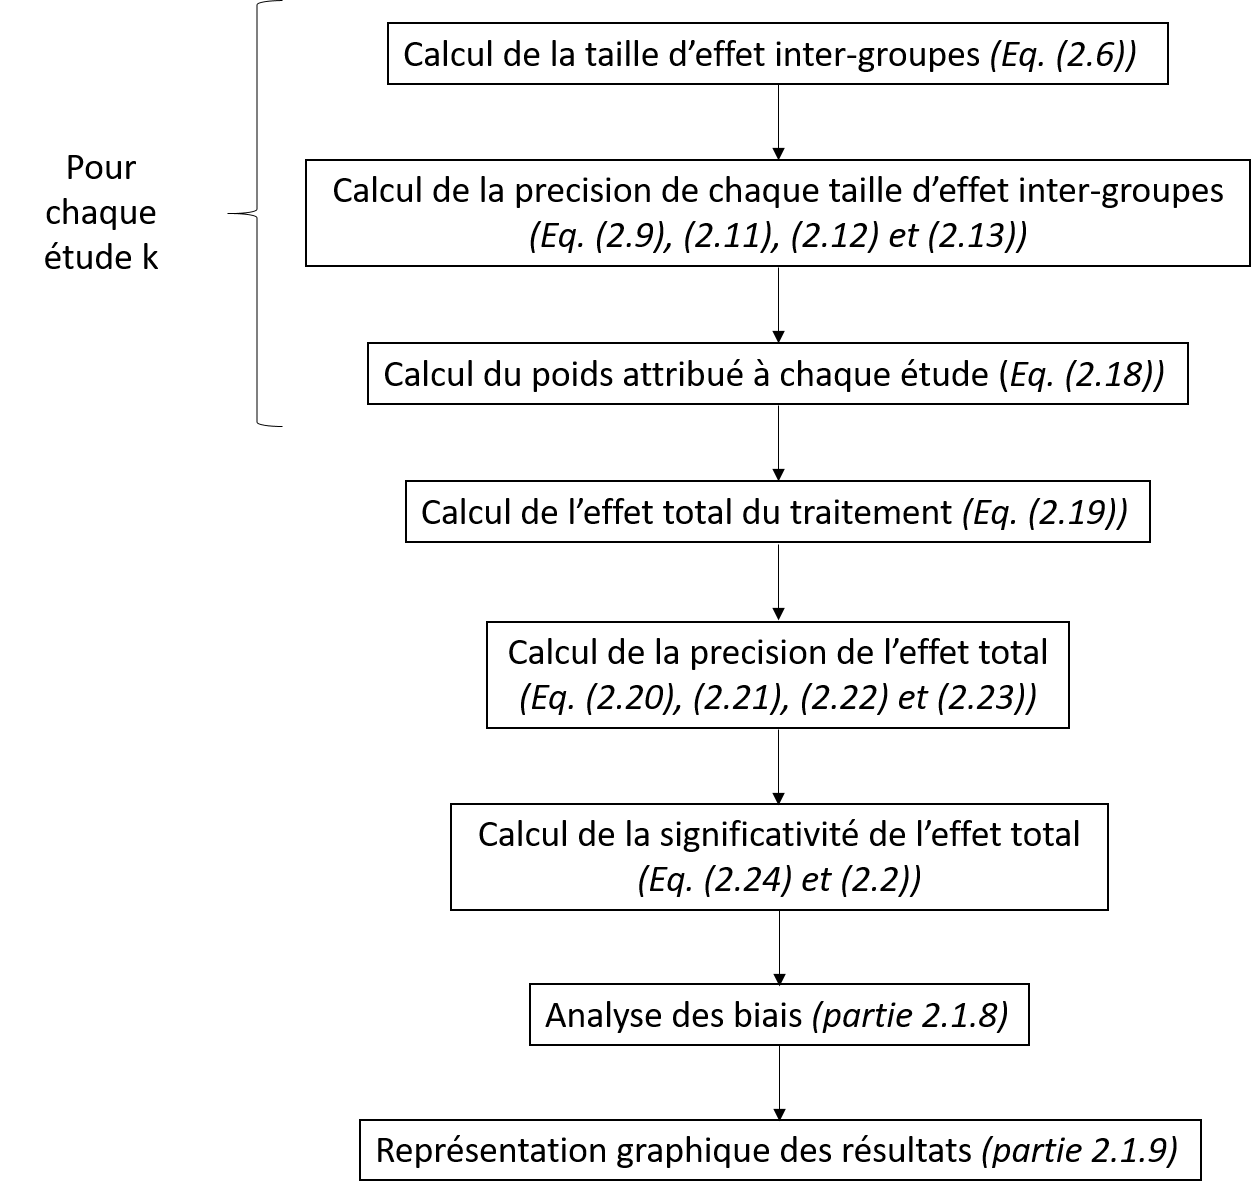
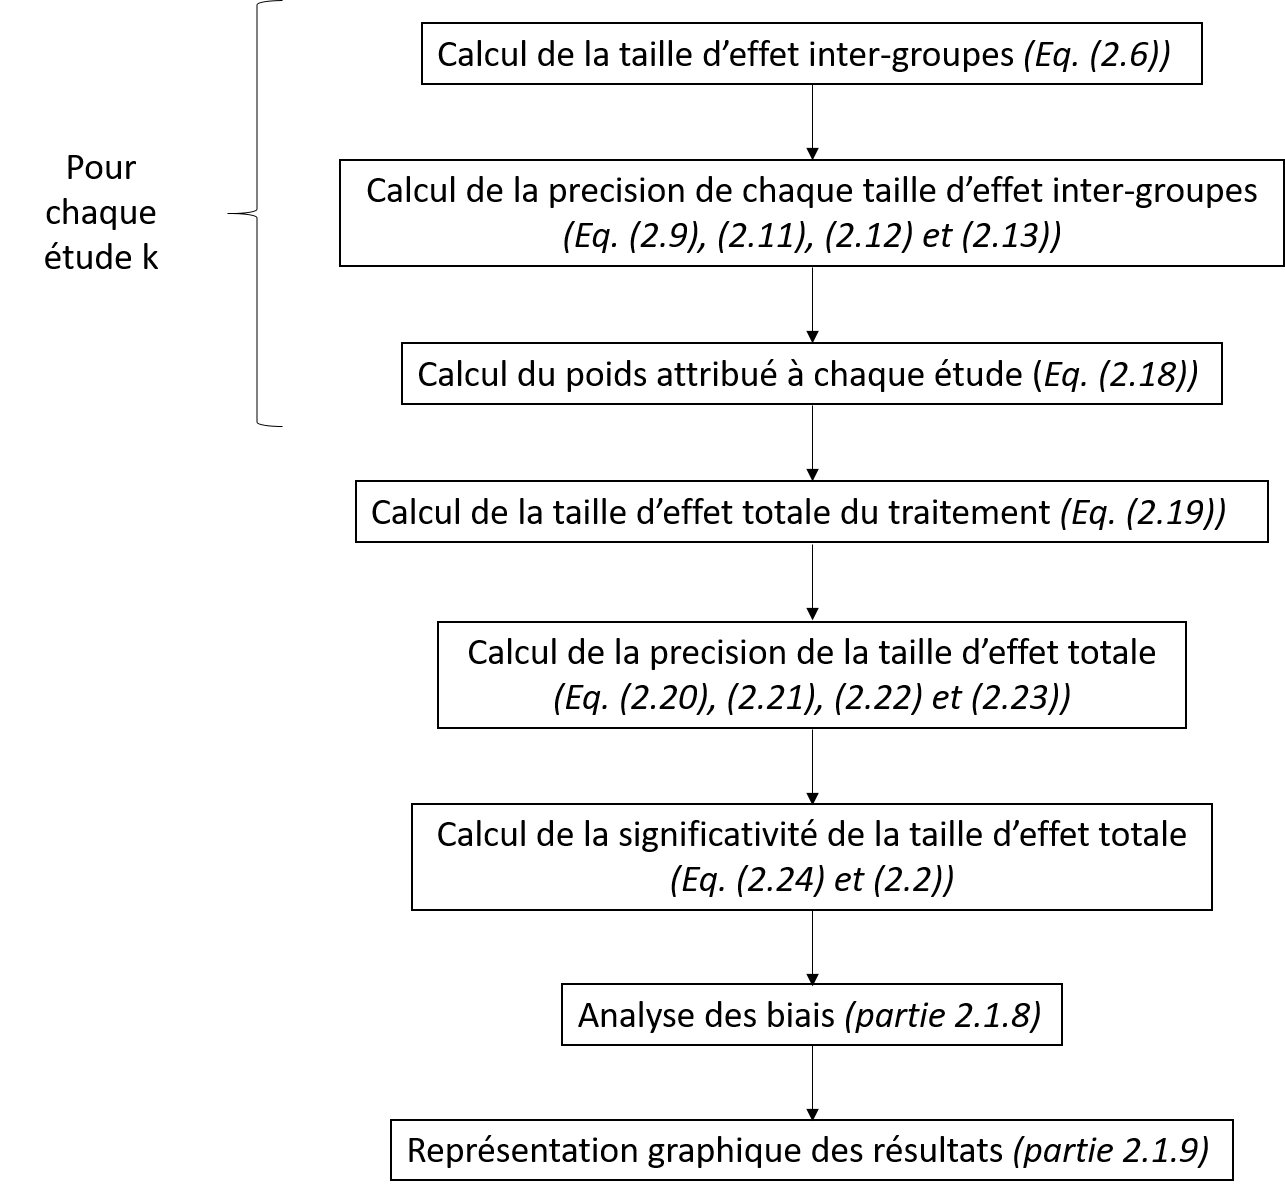
chapter-2 proofread again

diff --git a/chapter_2.tex b/chapter_2.tex
@@ -233,7 +233,7 @@ La précision est affectée, dans une large mesure, par le nombre de sujets incl
 variances plus faibles et donc à des estimations d'\gls{es}-inter-groupes plus précises \citep[Chapitre~8]{Borenstein2009}, c'est pourquoi un plus grand 
 poids leur est attribué dans la méta-analyse comme détaillé par la suite.
 
-\subsection{Calcul de l'effet total du traitement} \label{compute_summary_effect}
+\subsection{Calcul de la taille d'effet totale du traitement} \label{compute_summary_effect}
 
 Afin d'obtenir l'estimation la plus précise possible de l'effet du traitement sur la population, une moyenne pondérée des \gls{es}-inter-groupes 
 des études incluses est calculée.
@@ -507,21 +507,21 @@ La deuxième sous-population étudiée comprend les sujets ne prenant aucun trai
 Finalement, 7 études ont été identifiées lors de la recherche menée le 2 septembre 2019, dont le détail est présenté 
 à la Table~\ref{Table:table_meta_review_update_september_2019} : 
 \begin{itemize}
-\item \citep{Baumeister2016} pour qui seuls les résultats pour les symptômes totaux évalués par les parents sont disponibles,
-\item \citep{Strehl2017} pour qui les évaluations des parents et des enseignants sont données pour toutes les composantes,
-\item \citep{Bazanova2018} qui donne les évaluations des parents pour les composantes inattention, hyperactivité et totale (pour être cohérent avec 
+\item \citet{Baumeister2016} pour qui seuls les résultats pour les symptômes totaux évalués par les parents sont disponibles,
+\item \citet{Strehl2017} pour qui les évaluations des parents et des enseignants sont données pour toutes les composantes,
+\item \citet{Bazanova2018} qui donne les évaluations des parents pour les composantes inattention, hyperactivité et totale (pour être cohérent avec 
 la \gls{saob} présentée dans le chapitre \ref{ch-saob}, seul le groupe \gls{nfb} est retenu),
-\item \citep{Minder2018} pour qui les évaluations des parents et des enseignants sont données pour toutes les composantes ; un groupe \gls{nfb}
+\item \citet{Minder2018} pour qui les évaluations des parents et des enseignants sont données pour toutes les composantes ; un groupe \gls{nfb}
 et un groupe contrôle suivent leur traitement à l'école, alors que les autres groupes \gls{nfb} et contrôle l'effectue en clinique,
-\item \citep{Moreno2019} pour qui seuls les résultats pour les symptômes totaux évalués par les parents sont disponibles,
-\item \citep{Shereena2019} pour qui les évaluations des parents et des enseignants sont données pour toutes les composantes,
-\item \citep{Aggensteiner2019} pour qui les évaluations des parents sont disponibles pour la composante totale et inattention. 
+\item \citet{Moreno2019} pour qui seuls les résultats pour les symptômes totaux évalués par les parents sont disponibles,
+\item \citet{Shereena2019} pour qui les évaluations des parents et des enseignants sont données pour toutes les composantes,
+\item \citet{Aggensteiner2019} pour qui les évaluations des parents sont disponibles pour la composante totale et inattention. 
 \end{itemize}
 
 \begin{table}[h!]
   \centering
-  \caption[Détail des études satisfaisant les critères d'inclusion de \citep{Cortese2016}.]{Détail des études satisfaisant les critères 
-	d'inclusion de \citep{Cortese2016} après la recherche PubMed du 2 septembre 2019.}
+  \caption[Détail des études satisfaisant les critères d'inclusion de \citet{Cortese2016}.]{Détail des études satisfaisant les critères 
+	d'inclusion de \citet{Cortese2016} après la recherche PubMed du 2 septembre 2019.}
   \input{tables/chapter-2/table_meta_review_update_september_2019}
   \label{Table:table_meta_review_update_september_2019}
 \end{table} 
@@ -551,7 +551,7 @@ aucun \gls{est} n'est significatif.
   \caption[\textit{Forest plots} de la mise à jour de \citet{Cortese2016}.]{\textit{Forest plots} des \gls{es}-inter-groupes (les carrés bleus) avec 
 	leur intervalle de confiance à 95\% (en vert) obtenus après la mise à jour de 
 	\citet{Cortese2016}. Le losange bleu correspond à l'\gls{est}.
-	Un \gls{es} négatif est en faveur du \gls{nfb}.}
+	Un \gls{es}-inter-groupes négatif est en faveur du \gls{nfb}.}
   \label{Figure:meta_analysis_forest_plots}
 \end{figure}
 
@@ -692,7 +692,7 @@ Les conclusions d'une méta-analyse pourraient donc souffrir de l'arrêt prémat
 Ainsi, la méta-analyse de \citet{Cortese2016} a déjà fait l'objet de deux mises à jour, dont les différences vont être comparées par la suite : 
 la première a été publiée en 2019 \citep{Bussalb2019clinical} et la deuxième est présentée en \ref{selection_studies}. 
 
-\subsubsection{Mise en évidence de l'importance des mises à jour} \label{methods_importance_to_update_meta_analysis}
+\subsection{Mise en évidence de l'importance des mises à jour} \label{methods_importance_to_update_meta_analysis}
 
 L'importance de mettre à jour les méta-analyses est étudiée en deux temps :
 \begin{itemize}
@@ -717,16 +717,19 @@ Les courbes sont tracées pour les évaluations des parents et des enseignants. 
 des abscisses en haut de chaque graphique. Les NSC sont obtenus de la façon suivante : $\text{NSC}(k) = \text{NSC}(k - 1) + \text{NS}(k)$, avec $k$ l'indice de l'étude incluse
 allant de $1$ à $K$, avec $K$ le nombre total d'études incluses.
  
-Par ailleurs, la méta-analyse de \citet{Cortese2016} ainsi que ses mises
+Par ailleurs, la réplication de la méta-analyse de \citet{Cortese2016} ainsi que ses mises
 à jour sont symbolisées sur les tracés par une étoile si l'\gls{est} est statistiquement significatif ou par un carreau sinon : les symboles
-rouges correspondent aux résulats de la réplication de \citet{Cortese2016} (partie \ref{replication}), les verts à ceux de \citet{Bussalb2019clinical} et les violets à ceux de la mise à jour décrite en \ref{selection_studies}. Les méta-analyses
+rouges correspondent aux résulats de la réplication de \citet{Cortese2016} (cf. \ref{replication}), les verts à ceux de \citet{Bussalb2019clinical} et les violets à ceux de la mise à jour décrite en \ref{selection_studies}. Les méta-analyses
 étant généralement publiées quelque temps après la fin de la sélection des études, leur année de publication est représentée grâce à un point de la même couleur que le carreau ou
 l'étoile relié au résultat de la méta-analyse par une droite en pointillés. 
 
 L'axe des ordonnées a été inversé de façon à ce que les points en hauteur correspondent aux méta-analyses les plus favorables au traitement.
 
+Tous les \gls{est} obtenus ont été calculés à l'aide du package Python développé pour mener les analyses décrites dans ce chapitre
+\citep{Bussalb2019clinical} et avec les choix qui ont été faits lors la réplication de la méta-analyse de \citet{Cortese2016} présentée en \ref{replication}.
 
-\subsubsection{Analyse des courbes de l'évolution de la taille d'effet totale}
+
+\subsection{Analyse des courbes de l'évolution de la taille d'effet totale}
 
 La Figure~\ref{Figure:meta_analysis_evolution_est_total} représente l'évolution de l'\gls{est} calculé grâce aux évaluations des parents (en \textbf{A}) et des 
 enseignants (en \textbf{B}) sur la composante totale en fonction de l'année de publication des études satisfaisant le critère d'inclusion établi par \citep{Cortese2016} et énoncé en 
@@ -737,7 +740,7 @@ enseignants (en \textbf{B}) sur la composante totale en fonction de l'année de 
 	\includegraphics[width=1\linewidth]{figures/chapter-2/meta-analysis-evolution-summary-effect-total} 
   \caption[Evolution des \gls{est} au fur et à mesure de l'ajout de nouvelles études.]{Evolution des \gls{est} et de leur intervalle de confiance à 95\% au fur et à mesure de l'ajout des études satisfaisant le critère d'inclusion de \citet{Cortese2016} pour les évaluations des 
 	parents en \textbf{A} et des enseignants en \textbf{B} sur la composante totale.
-  Les résultats de \citep{Cortese2016} sont représentés par des symboles rouges, ceux de \citet{Bussalb2019clinical} en vert et ceux présentés en \ref{selection_studies} en violet. Les étoiles 
+  Les résultats de la réplication de \citet{Cortese2016} sont représentés par des symboles rouges, ceux de \citet{Bussalb2019clinical} en vert et ceux présentés en \ref{selection_studies} en violet. Les étoiles 
 	indiquent un \gls{est} statistiquement significatif, un losange un \gls{est} non statistiquement significatif. L'année de publication de ces méta-analyses est représentée grâce à un point de la couleur 
 	d'intérêt relié au résultat de la méta-analyse par une droite en pointillés.
 	Plus la valeur absolue de l'\gls{est} est élevée plus le traitement est efficace.
@@ -763,7 +766,7 @@ les études suivant un protocole standard \citep{Arns2014}.
   \caption[Evolution des \gls{est} au fur et à mesure de l'ajout de nouvelles études suivant un protocole standard.]{Evolution des \gls{est} et de leur 
 	intervalle de confiance à 95\% au fur et à mesure de l'ajout des études suivant un protocole standard pour les évaluations des 
 	parents en \textbf{A} et des enseignants en \textbf{B} sur la composante totale.
-  Les résultats de \citep{Cortese2016} sont représentés par des symboles rouges, ceux de \citet{Bussalb2019clinical} en vert et ceux présentés en \ref{selection_studies} en violet. Les étoiles 
+  Les résultats de la réplication de \citet{Cortese2016} sont représentés par des symboles rouges, ceux de \citet{Bussalb2019clinical} en vert et ceux présentés en \ref{selection_studies} en violet. Les étoiles 
 	indiquent un \gls{est} statistiquement significatif, un losange un \gls{est} non statistiquement significatif. L'année de publication de ces méta-analyses est représentée grâce à un point de la couleur 
 	d'intérêt relié au résultat de la méta-analyse par une droite en pointillés.
 	Plus la valeur absolue de l'\gls{est} est élevée plus le traitement est efficace.
@@ -780,7 +783,7 @@ En ce qui concerne les \gls{est} obtenus grâce aux enseignants (\textbf{B} de l
 est inclus et, alors que dans les cas précédents la diminution de l'\gls{est}ne menait pas à une perte de significativité statistique parmi les méta-analyses, 
 ici la mise à jour de \citet{Cortese2016} présentée en \ref{selection_studies} conduit à un \gls{est} non significativement en faveur du \gls{nfb}. 
 
-\subsubsection{Analyse des courbes de l'évolution de la $p$-value des tailles d'effet totales}
+\subsection{Analyse des courbes de l'évolution de la $p$-value des tailles d'effet totales}
 
 L'évolution des $p$-value de ces \gls{est} en fonction des études incluses est ensuite étudiée et présentée à la Figure~\ref{Figure:meta_analysis_evolution_pvalue_total} pour 
 l'intégralité des études et à la Figure~\ref{Figure:meta_analysis_evolution_pvalue_std} pour les études suivant un protocole standard \citep{Arns2014}.
@@ -790,7 +793,7 @@ l'intégralité des études et à la Figure~\ref{Figure:meta_analysis_evolution_
 	\includegraphics[width=1\linewidth]{figures/chapter-2/meta-analysis-evolution-pvalue-total} 
   \caption[Evolution de la $p$-value des \gls{est} au fur et à mesure de l'ajout de nouvelles études.]{Evolution de la $p$-value des \gls{est} et de leur intervalle de confiance à 95\% au fur et à mesure de l'ajout des études satisfaisant le critère d'inclusion de \citet{Cortese2016} pour les évaluations des 
 	parents en \textbf{A} et des enseignants en \textbf{B} sur la composante totale.
-  Les résultats de \citep{Cortese2016} sont représentés par des symboles rouges, ceux de \citet{Bussalb2019clinical} en vert et ceux présentés en \ref{selection_studies} en violet. Les étoiles 
+  Les résultats de la réplication de \citet{Cortese2016} sont représentés par des symboles rouges, ceux de \citet{Bussalb2019clinical} en vert et ceux présentés en \ref{selection_studies} en violet. Les étoiles 
 	indiquent un \gls{est} statistiquement significatif, un losange un \gls{est} non statistiquement significatif. L'année de publication de ces méta-analyses est représentée grâce à un point de la couleur 
 	d'intérêt relié au résultat de la méta-analyse par une droite en pointillés.
 	Le nombre de sujets inclus par étude et cumulatif est indiqué sur les axes des abscissses supérieurs. La manière dont est calculé ce dernier est 
@@ -805,7 +808,7 @@ l'intégralité des études et à la Figure~\ref{Figure:meta_analysis_evolution_
   \caption[Evolution de la $p$-value des \gls{est} au fur et à mesure de l'ajout de nouvelles études suivant un protocole standard.]{Evolution de la $p$-value 
 	des \gls{est} et de leur intervalle de confiance à 95\% au fur et à mesure de l'ajout des études répondant à la définition du protocole standard pour les évaluations des 
 	parents en \textbf{A} et des enseignants en \textbf{B} sur la composante totale.
-  Les résultats de \citep{Cortese2016} sont représentés par des symboles rouges, ceux de \citet{Bussalb2019clinical} en vert et ceux présentés en \ref{selection_studies} en violet. Les étoiles 
+  Les résultats de la réplication de \citet{Cortese2016} sont représentés par des symboles rouges, ceux de \citet{Bussalb2019clinical} en vert et ceux présentés en \ref{selection_studies} en violet. Les étoiles 
 	indiquent un \gls{est} statistiquement significatif, un losange un \gls{est} non statistiquement significatif. L'année de publication de ces méta-analyses est représentée grâce à un point de la couleur 
 	d'intérêt relié au résultat de la méta-analyse par une droite en pointillés.
 	Le nombre de sujets inclus par étude et cumulatif est indiqué sur les axes des abscissses supérieurs. La manière dont est calculée ce dernier est 
@@ -830,7 +833,7 @@ sont moins importantes aussi bien pour les évaluations
 des parents (en \textbf{A}) que celles des enseignants (en \textbf{B}) mais restent instables. 
 De plus, les $p$-values sont à la limite du seuil de significativité dans les deux cas lors de la dernière mise à jour.
 
-\subsubsection{Discussion sur ces courbes}
+\subsection{Discussion sur ces courbes}
 
 Les courbes d'évolution des \gls{est} au fur et à mesure de l'inclusion de l'ensemble des études (Figure~\ref{Figure:meta_analysis_evolution_est_total}) 
 illustrent le fait que l'\gls{est} 
@@ -851,7 +854,7 @@ de continuer à mettre à jour ce travail pour déterminer si cette $p$-value de
 Dans le cas de l'évolution des $p$-values dans le sous-groupe des études suivant un protocole standard (Figure~\ref{Figure:meta_analysis_evolution_pvalue_std}), 
 la dernière mise à jour 
 de \citet{Cortese2016} conduit à des résultats limite significatifs pour les évaluations des parents (\textbf{A}) et à une perte de significativité statistique pour celles des 
-enseignants (\textbf{B}), remettant en question les conclusion de \citet{Cortese2016} et \citet{Bussalb2019clinical} quant à l'efficacité des protocoles standards.
+enseignants (\textbf{B}), remettant en question les conclusions de \citet{Cortese2016} et \citet{Bussalb2019clinical} quant à l'efficacité des protocoles standards.
  
 La $p$-value est très largement utilisée en méta-analyse, mais est également de plus en plus contestée du fait qu'elle soit trop souvent mal interprétée 
 \citep{Halsey2019}. 
@@ -874,7 +877,7 @@ Cette approche qui consiste à affiner les résultats à l'aide de nouvelles obs
 \section{Conclusion}
 
 Cette partie s'est concentrée sur un outil couramment utilisé pour évaluer l'efficacité du \gls{nfb} : la méta-analyse. Ce travail a été l'occasion de mettre au point un package 
-\textsl{open-source} pour effectuer une méta-analyse en toute transparence et aider à la réplication ou à la mise à jour de ses résultats.
+\textit{open-source} pour effectuer une méta-analyse en toute transparence et aider à la réplication ou à la mise à jour de ses résultats.
 
 Ce package a justement été utilisé pour répliquer la méta-analyse de \citet{Cortese2016} dont certains points ont été discutés par la communauté scientifique. 
 Il se trouve que les choix effectués par \citet{Cortese2016} s'avèrent anodins mais illustrent la complexité de l'émergence de la preuve

diff --git a/glossaries.tex b/glossaries.tex
@@ -1,19 +1,26 @@
 \makeglossaries
 
 \newacronym{tdah}{TDAH}{Trouble du Déficit de l'Attention avec ou sans Hyperactivité}
-\newacronym{nfb}{NFB}{neurofeedback}
+\newacronym{adhd}{ADHD}{\textit{Attention Deficit Hyperactivity Disorder}}
+\newacronym{nfb}{NFB}{Neurofeedback}
 \newacronym{es}{ES}{\textit{Effect Size}}
 \newacronym{et}{ET}{Erreur Type}
 \newacronym{est}{EST}{\textit{Effect Size} Total}
 \newacronym{saob}{SAOB}{\textit{Systematic Analysis of Biases}}
-\newacronym{eegi}{EEG}{électroencéphalogrique}
+\newacronym{eegy}{EEG}{\textit{electroencephalography}}
+\newacronym{eegi}{EEG}{électroencéphalographique}
+\newacronym{eegic}{EEG}{\textit{electroencéphalographic}}
 \newacronym{eeg}{EEG}{électroencéphalogramme}
+\newacronym{eegie}{EEG}{électroencéphalographie}
 \newacronym{irb}{IRB}{\textit{Institutional Review Board}}
 \newacronym{scp}{SCP}{\textit{Slow Cortical Potentials}}
 \newacronym{tbr}{TBR}{Theta-Beta Ratio}
 \newacronym{smr}{SMR}{Rythme Sensorimoteur}
 \newacronym{iapf}{iAPF}{\textit{individualized Alpha Peak Frequency}}
+\newacronym{csv}{.csv}{\textit{comma-separated values}}
 \newacronym{emg}{EMG}{électromyogramme}
+\newacronym{emgic}{EMG}{électromyographique}
+\newacronym{emgie}{EMG}{électromyographie}
 \newacronym{agcl}{AgCl}{Chlorure d'Argent}
 \newacronym{au}{Au}{or}
 \newacronym{wls}{WLS}{\textit{Weighted Multiple Linear Regression}}
@@ -24,7 +31,6 @@
 \newacronym{ols}{OLS}{\textit{Ordinary Least Squares}}
 \newacronym{mse}{MSE}{\textit{Mean Square Error}}
 \newacronym{pblind}{PBlind}{\textit{Probably Blind}}
-\newacronym{eog}{EOG}{Electro-Oculogramme}
 \newacronym{mprox}{MProx}{\textit{Most Proximal}}
 \newacronym{eo}{EO}{\textit{Eyes Open}}
 \newacronym{cmi-mipdb}{CMI-MIPDB}{\textit{Child Mind Institute Multimodel Resource for Studying Information Processing in the Developing Brain}}
@@ -35,11 +41,11 @@
 \newacronym{bgmm}{BGMM}{\textit{Bayesian Gaussian Mixture Model}}
 \newacronym{dbscan}{DBSCAN}{\textit{Density-Based Spatial Clustering of Applications with Noise}}
 \newacronym{gmm}{GMM}{\textit{Gaussian Mixture Model}}
-\newacronym{roc}{ROC}{\textit{Receiver Operating Characteristic}}
+\newacronym{roc}{ROC}{\textit{Receiver Operating Characteristics}}
 \newacronym{fpr}{FPR}{\textit{False Positive Rate}}
 \newacronym{tpr}{TPR}{\textit{True Positive Rate}}
 \newacronym{auc}{AUC}{\textit{Area Under the Curve}}
-\newacronym{knn}{kNN}{\textit{k-nearest neighbors}}
+\newacronym{knn}{kNN}{\textit{k-Nearest Neighbors}}
 \newacronym{acc}{ACC}{\textit{accuracy}}
 \newacronym{fmri}{fMRI}{\textit{functional Magnetic Resonance Imaging}}
 \newacronym{mri}{MRI}{\textit{Magnetic Resonance Imaging}}
@@ -55,7 +61,7 @@
 \newacronym{wasi}{WASI}{\textit{Wechsler Abbreviated Scale of Intelligence}}
 \newacronym{wisc}{WISC}{\textit{Wechsler Intelligence Scale for Children}}
 \newacronym{nirs}{NIRS}{\textit{Near-Infrared Spectroscopy}}
-\newacronym{ecog}{ECoG}{Electrocorticographie}
+\newacronym{ecog}{ECoG}{électrocorticographie}
 \newacronym{em}{EM}{Expectation Maximization}
 \newacronym{dsm}{DSM}{\textit{Diagnostic and Statistical Manual of Mental Disorders}}
 \newacronym{gbss}{gBSS}{\textit{Group Blind Source Separation}}

diff --git a/tables/chapter-2/table_meta_review_comparison_revman_python.tex b/tables/chapter-2/table_meta_review_comparison_revman_python.tex
@@ -3,7 +3,7 @@
 
 \multicolumn{2}{c}{Données} & \shortstack{ Resultats de \\ \citet{Cortese2016} } & \shortstack{ Résultats de \\ \citet{Bussalb2019clinical} } \\
 \hline
-\multicolumn{2}{c}{Implémentation} & \shortstack{ RevMan } & Package meta-analysis \\
+\multicolumn{2}{c}{Implémentation} & \shortstack{ RevMan } & Package \textit{meta-analysis} \\
 \hline
 \multirow{3}{*}{ \textit{Parents} } & Total & $0.35$ ($0.004$) & $-0.34$ ($0.004$)\\
  & Inattention  & $0.36$ ($0.009$) & $-0.35$ ($0.011$)\\
